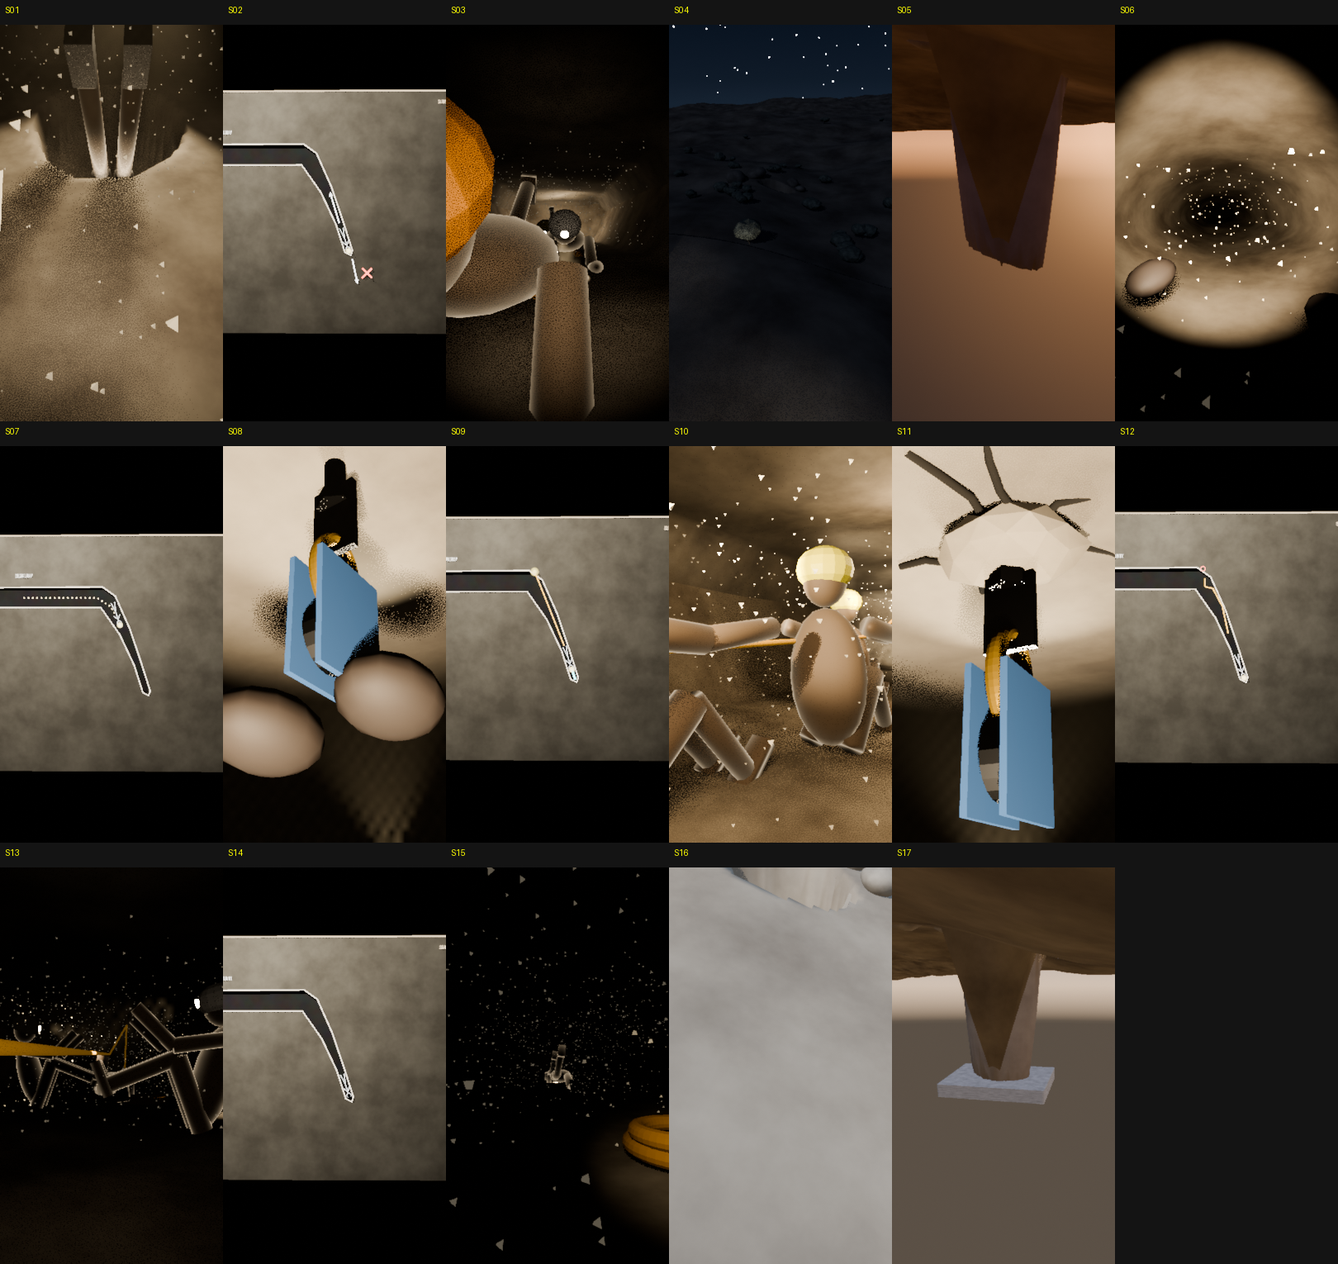
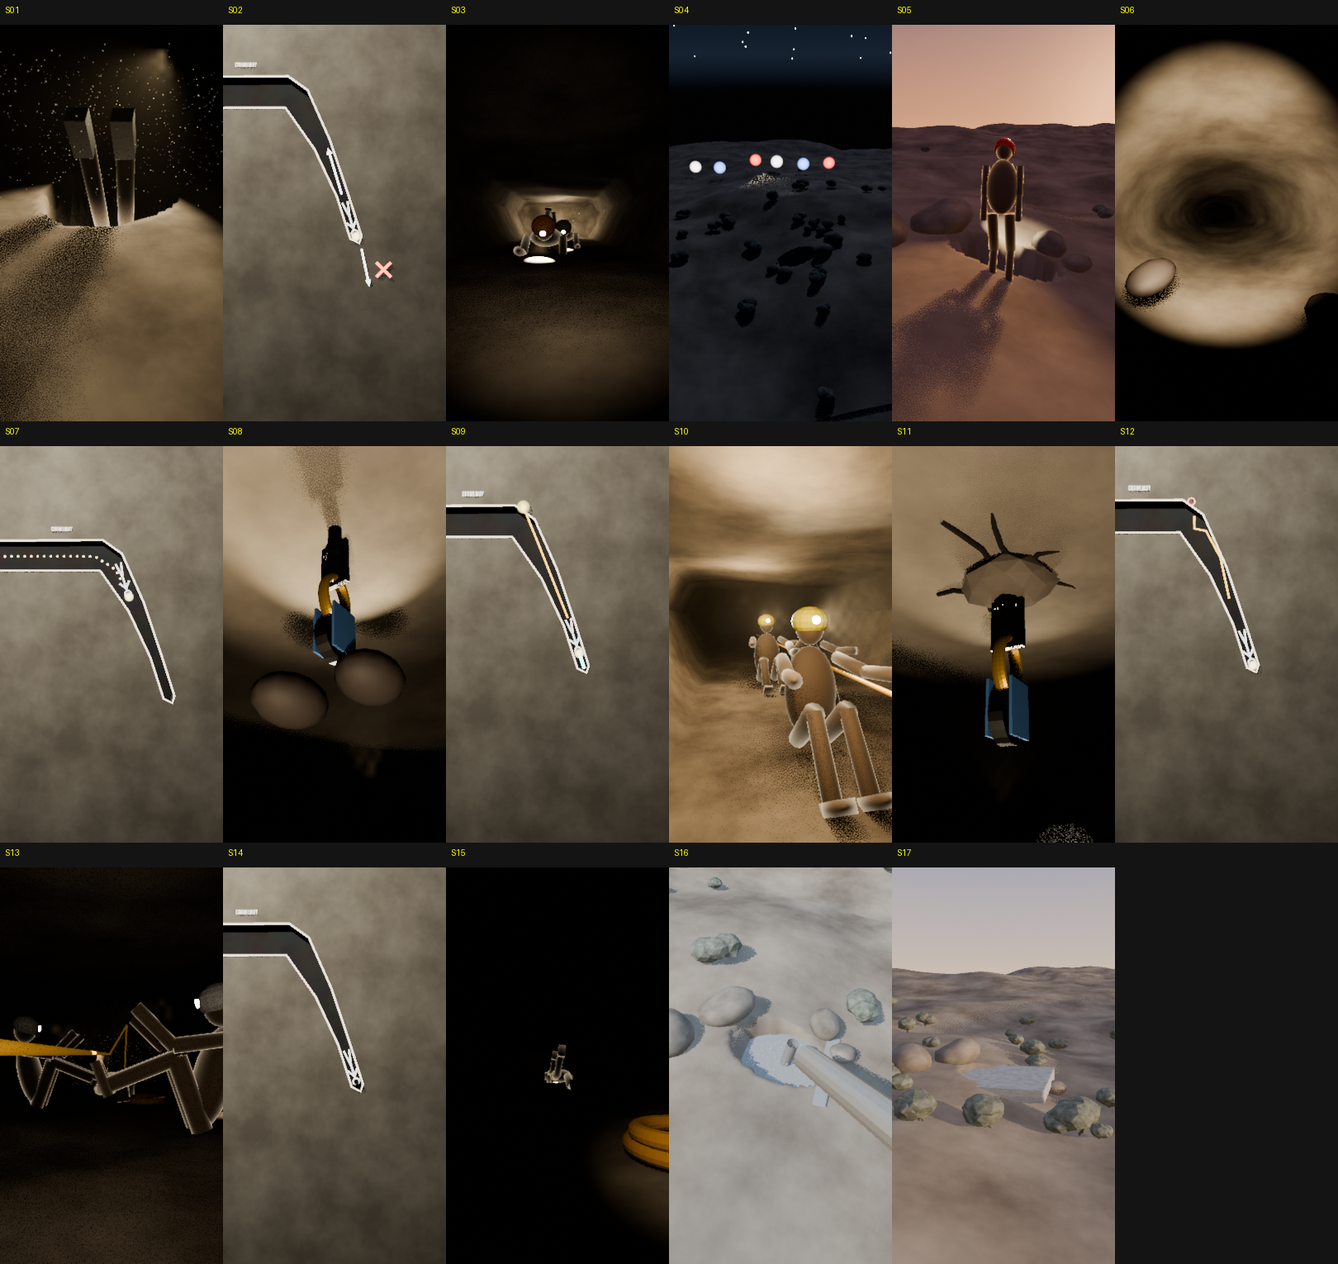
CAVE-02/04 animated + READY
Claude-Session: https://claude.ai/code/session_018PgShWLbZ6WQAiPFkp2HdE

diff --git a/YOUTUBE_ANIMATION_STUDIO/BLENDER_PROJECTS/MURDER-03/shots.py b/YOUTUBE_ANIMATION_STUDIO/BLENDER_PROJECTS/MURDER-03/shots.py
@@ -344,9 +344,10 @@ def S07(L, n):
     b = M.money_bag((0.22, 0, -0.4), name="cbag")
     b.parent = cour["shoulderR"]
     M.rain((12, -16, 5), (26, 26, 14), (1.5, 0, -14), n, count=2400, length=0.45, width=0.008, period=6, seed=11,
-           cam=(36, -27, 2.4), clear=2.0, emit=0.9, color=(0.9, 0.7, 0.5))
+           cam=(27, -19, 2.0), clear=2.0, emit=0.9, color=(0.9, 0.7, 0.5))
     L.fog_volume(center=(10, 0, 6), size=(90, 70, 14), density=0.012, color=(0.9, 0.75, 0.55))
-    cam, ct = cam_path(L, n, (37, -26, 2.4), (39.5, -23.5, 2.4), (11, -6, 3.2), (11, -5, 3.2), lens=35, ease=False)
+    cam, ct = cam_path(L, n, (27, -19, 2.0), (29, -16.5, 2.0), (12, -5, 3.0), (12, -4.5, 3.0), lens=35, ease=False)
+    L.area((14, -9, 15), (0, 0, 0), energy=30000, size=24, color=(1.0, 0.62, 0.3), name="sodiumwash")
     L.handheld(cam, n, amp=0.01, rate=0.4)
     L.bake_static()
 
@@ -370,8 +371,8 @@ def S08(L, n):
 
 
 def S15(L, n):
-    M.night_sky(stars=0.5, hor=(0.02, 0.025, 0.04))
-    L.sun(rot=(R(50), 0, R(40)), energy=1.0, color=(0.5, 0.6, 0.9), name="moon")
+    M.night_sky(stars=0.5, hor=(0.05, 0.06, 0.09), strength=1.5)
+    L.sun(rot=(R(50), 0, R(40)), energy=3.0, color=(0.5, 0.6, 0.9), name="moon")
     def h(x, y):
         river = math.sin(y * 0.02) * 40
         d = abs(x - river)
@@ -407,9 +408,9 @@ def S09(L, n):
                    name="behind")
     M.cloud_volume((-10, 0, -24), (200, 80, 16), density=0.35, scale=0.6, drift=(-45, 0, 0), n=n, color=(0.3, 0.34, 0.45),
                    name="deck")
-    M.rain((-14, -12, -1), (40, 22, 20), (-36, 0, -8), n, count=2400, length=1.2, width=0.012, period=8, seed=5, emit=0.6,
-           cam=(-13, -34, -1), clear=3)
-    cam, ct = cam_path(L, n, (-11, -36, -1.5), (-14.5, -28, -2.2), (-13, 0, -0.5), (-15.5, 0, -1.6), lens=50)
+    M.rain((-14, -12, -1), (40, 22, 20), (-36, 0, -8), n, count=1300, length=0.9, width=0.008, period=8, seed=5, emit=0.5,
+           cam=(-34, -22, -5), clear=3)
+    cam, ct = cam_path(L, n, (-36, -24, -5.5), (-31, -19, -4.6), (-14, 0, -0.5), (-16, 0, -1.6), lens=50)
     L.handheld(cam, n, amp=0.05, rate=0.8)
     L.bake_static()
 
@@ -447,7 +448,7 @@ def S10(L, n):
     for f, rz in ((fo, 0), (n, R(40))):
         can_root.rotation_euler = (0, 0, rz)
         can_root.keyframe_insert("rotation_euler", frame=f)
-    M.rain((0, 0, -20), (30, 8, 8), (0, 0, -16), n, count=1200, length=0.8, width=0.01, period=8, seed=2, emit=0.6)
+    M.rain((0, 0, -20), (30, 8, 8), (0, 0, -16), n, count=600, length=0.6, width=0.008, period=8, seed=2, emit=0.4)
     M.lightning(n, [fo + 3], rot=(R(10), R(-15), 0), energy=12, world_bg=bg, world_peak=4)
     cam, ct = L.camera(loc=(0, 0, 0), target=None, lens=24)
     cam.data.clip_end = 3000
@@ -482,18 +483,19 @@ def forest_floor(name, h, area, seed=5, count=700):
 
 
 def S11(L, n):
-    M.dawn_sky(hor=(0.42, 0.45, 0.44), mid=(0.33, 0.36, 0.38), zen=(0.22, 0.25, 0.28), strength=1.2)
-    L.sun(rot=(R(30), R(20), R(40)), energy=0.8, color=(0.8, 0.85, 0.9), angle=20, name="overcast")
+    M.dawn_sky(hor=(0.42, 0.45, 0.44), mid=(0.33, 0.36, 0.38), zen=(0.22, 0.25, 0.28), strength=2.0)
+    L.sun(rot=(R(30), R(20), R(40)), energy=2.5, color=(0.8, 0.85, 0.9), angle=20, name="overcast")
+    bpy.context.scene.eevee.use_volumetric_shadows = False
     def h(x, y):
         return 1.2 * noise.noise(Vector((x * 0.05, y * 0.05, 4)))
     M.heightfield("floor", -60, 60, -60, 60, 120, 120, h,
                   mat=L.mat_noise_surface("floorm", (0.03, 0.035, 0.02), (0.09, 0.09, 0.05), scale=1.5, bump=0.3, voronoi=False))
     spots = M.scatter_spots((-50, 50, -10, 60), 260, h, seed=2, h=(14, 24), exclude=lambda x, y: abs(x) < 7 and y < 12)
-    spots += M.scatter_spots((-50, 50, -60, -10), 120, h, seed=3, h=(14, 24), exclude=lambda x, y: abs(x) < 9)
+    spots += M.scatter_spots((-50, 50, -60, -10), 120, h, seed=3, h=(14, 24), exclude=lambda x, y: abs(x) < 14)
     M.fast_conifers("forest", spots, mat=M.mat_dusted("trees", base=(0.02, 0.04, 0.025), snow=(0.05, 0.08, 0.05)), seed=2,
                      bare_frac=0.1)
     forest_floor("ferns", h, (-12, 12, -8, 14), count=500)
-    jm = L.mat_principled("jacket", (0.22, 0.17, 0.04), rough=0.6)
+    jm = L.mat_principled("jacket", (0.5, 0.36, 0.05), rough=0.6)
     for i in range(3):
         f = L.char_figure(f"searcher{i}", color=(0.05, 0.05, 0.045), height=1.78, coat=True)
         L.assign(f["coat"], jm)
@@ -509,10 +511,10 @@ def S11(L, n):
         L.assign(bulb, L.mat_emission(f"tb{i}", (1, 0.9, 0.7), 30))
         bulb.parent = f["shoulderR"]
         tl.location = (0, 0, -0.62)
-    L.fog_volume(center=(0, 10, 6), size=(90, 90, 14), density=0.045, color=(0.75, 0.8, 0.78))
+    L.fog_volume(center=(0, 14, 5), size=(60, 50, 10), density=0.03, color=(0.75, 0.8, 0.78))
     M.rain((0, 2, 4), (12, 16, 14), (0.4, 0, -6), n, count=900, length=0.12, width=0.004, period=8, seed=9, emit=0.4,
            color=(0.8, 0.85, 0.85), cam=(0, -10, 6), clear=1.5)
-    cam, ct = cam_path(L, n, (0.5, -12, 12), (0, -9.5, 3.2), (0, 4, 10), (0, 2, 1.0), lens=35)
+    cam, ct = cam_path(L, n, (0.5, -11, 7.5), (0, -8.5, 2.6), (0, 4, 6), (0, 1.5, 1.0), lens=35)
     L.bake_static()
 
 
@@ -600,16 +602,16 @@ def S13(L, n):
     sk.keyframe_insert("value", frame=int(n * 0.6))
     for i, (x, y, rz) in enumerate(((-0.06, 0.035, 0.15), (0.07, 0.03, -0.2), (0.0, -0.045, 0.05))):
         M.rotten_bundle((x, y, -0.024 + i * 0.002), rot_z=rz, size=(0.156, 0.066, 0.03), name=f"bundle{i}")
-    grains = L.particle_cloud((0, 0, 0.05), (0.3, 0.25, 0.08), count=500, radius=0.0025, drift=(0.0, 0.0, -0.04), nframes=n,
+    grains = L.particle_cloud((0, 0, 0.05), (0.3, 0.25, 0.08), count=120, radius=0.0012, drift=(0.0, 0.0, -0.04), nframes=n,
                               name="grains", mat=L.mat_principled("grm", (0.5, 0.44, 0.32), rough=0.8))
     for f, s in ((1, 1.0), (int(n * 0.6), 1.0), (n, 0.001)):
         grains.scale = (s, s, s)
         grains.keyframe_insert("scale", frame=f)
     cam, ct = cam_path(L, n, (0.02, -0.25, 0.75), (0.01, -0.2, 0.62), (0, 0.0, 0), (0, 0.0, 0), lens=85)
     L.dof(cam, distance=0.8, fstop=2.0)
-    cam.data.dof.focus_distance = 0.6
+    cam.data.dof.focus_distance = 0.79
     cam.data.dof.keyframe_insert("focus_distance", frame=1)
-    cam.data.dof.focus_distance = 0.66
+    cam.data.dof.focus_distance = 0.65
     cam.data.dof.keyframe_insert("focus_distance", frame=n)
     L.bake_static()
 
@@ -658,9 +660,9 @@ def S14(L, n):
         c = M.glow_poly([(x + 0.16 * math.cos(a), y + 0.045 * math.sin(a), 0.008) for a in [i * 2 * math.pi / 24 for i in range(24)]],
                         color=(1.0, 0.08, 0.05), strength=6, bevel=0.003, name="ring", closed=True)
         M.curve_draw(c, 38, 46)
-    M.desk_lamp((-0.7, 0.9, 0), (0, 0.25, 0), energy=50, rot_z=R(200))
+    M.desk_lamp((-0.7, 0.9, 0), (0, 0.25, 0), energy=14, rot_z=R(200))
     L.area((0, 0.2, 1.5), (0, 0, 0), energy=8, size=1, color=(0.8, 0.85, 1.0), name="fill")
-    cam, ct = cam_path(L, n, (0.0, -0.15, 1.05), (0.06, 0.05, 0.75), (0.0, 0.32, 0), (0.08, 0.3, 0), lens=40)
+    cam, ct = cam_path(L, n, (0.02, -0.1, 1.25), (0.04, 0.0, 0.95), (0.02, 0.12, 0), (0.06, 0.12, 0), lens=40)
     L.bake_static()
 
 
@@ -716,7 +718,7 @@ def S16(L, n):
              ("?", (0.0, -0.05, -0.55), 58, 0.03)]
     roots = []
     for i, (txt, loc, hit, rot) in enumerate(cards):
-        c = M.paper_card(txt, loc, size=(1.0, 0.68), rot_y=rot, badge="THEORY", name=f"card{i}", text_size=0.16 if i == 0 else 0.26)
+        c = M.paper_card(txt, loc, size=(1.0, 0.68), rot_y=rot, badge="THEORY", name=f"card{i}", text_size=0.19 if i == 0 else 0.32)
         M.slam_in(c, hit, frm=(0.0, -1.2, 0.2), rot0=0.25, scale0=1.4, lead=5)
         M.hide_until(c, max(2, hit - 5))
         s = M.red_string([(loc[0], -0.06, loc[2] + 0.28), (0.0, -0.06, 1.85)], name=f"str{i}")
@@ -731,7 +733,7 @@ def S16(L, n):
 
 def S17(L, n):
     bg = M.storm_sky(zen=(0.006, 0.008, 0.014), hor=(0.03, 0.04, 0.06))
-    L.sun(rot=(R(65), 0, R(-150)), energy=0.9, color=(0.5, 0.6, 0.9), name="moon")
+    L.sun(rot=(R(65), 0, R(-150)), energy=2.2, color=(0.5, 0.6, 0.9), name="moon")
     def h(x, y):
         return 20 * noise.noise(Vector((x * 0.006, y * 0.006, 5))) + 5 * noise.noise(Vector((x * 0.03, y * 0.03, 1)))
     M.heightfield("hills", -400, 400, -100, 700, 120, 120, h, mat=L.mat_principled("hm", (0.006, 0.01, 0.007), rough=0.9))
@@ -788,10 +790,11 @@ def S18(L, n):
     L.particle_cloud((-14, -6, 3), (14, 8, 6), count=400, radius=0.006, drift=(0.02, 0, 0.01), nframes=n, name="dust")
     # orbit 20 deg around the tail
     tgt = (-14.5, 0, 2.6)
-    r_ = 15.0
-    cam, ct = L.camera(loc=(0, 0, 0), target=tgt, lens=50)
-    for f, a in ((1, R(-15)), (n, R(5))):
-        cam.location = (tgt[0] + r_ * math.sin(a), -r_ * math.cos(a), 2.4)
+    r_ = 12.0
+    tgt = (-16.0, 0, 2.3)
+    cam, ct = L.camera(loc=(0, 0, 0), target=tgt, lens=35)
+    for f, a in ((1, R(-30)), (n, R(-10))):
+        cam.location = (tgt[0] + r_ * math.sin(a), -r_ * math.cos(a), 0.7)
         cam.keyframe_insert("location", frame=f)
     L.bake_static()
 
@@ -822,7 +825,7 @@ def S19(L, n):
         for f, s in ((1, 3.0), (fv + 4, 3.0), (fv + 20, 0.0)):
             em.default_value = s
             em.keyframe_insert("default_value", frame=f)
-    L.spot((hx, -3, bz - 1.0), (R(70), 0, 0), energy=200, size_deg=40, blend=0.6, color=(0.8, 0.88, 1.0), name="macrokey")
+    L.spot((hx, -3, bz - 1.0), (R(70), 0, 0), energy=35, size_deg=40, blend=0.6, color=(0.8, 0.88, 1.0), name="macrokey")
     cam, ct = cam_path(L, n, (hx + 0.9, -4.6, bz - 0.9), (hx + 0.5, -3.3, bz - 0.6), (hx, -0.75, bz - 0.25), (hx, -0.75, bz - 0.25),
                        lens=85)
     L.dof(cam, distance=3.4, fstop=2.8)
@@ -863,8 +866,8 @@ def S21(L, n):
     wall.scale = (40, 30, 1)
     L.assign(wall, L.mat_noise_surface("wallm", (0.015, 0.015, 0.017), (0.04, 0.04, 0.045), scale=5, bump=0.2, voronoi=False))
     M.suspect_wall(cols=30, rows=18, origin=(0, 0, 3.2), seed=3)
-    L.spot((0, -9, 9), (R(42), 0, 0), energy=9000, size_deg=70, blend=0.7, color=(0.75, 0.85, 1.0), name="coldlamp", radius=0.3)
-    L.point((0, -2.5, 4.5), energy=250, color=(0.8, 0.88, 1.0), radius=0.4, name="near")
+    L.spot((0, -9, 9), (R(42), 0, 0), energy=4500, size_deg=70, blend=0.7, color=(0.75, 0.85, 1.0), name="coldlamp", radius=0.3)
+    L.point((0, -2.5, 4.5), energy=70, color=(0.8, 0.88, 1.0), radius=0.4, name="near")
     cam, ct = cam_path(L, n, (0.25, -1.1, 4.0), (0.0, -14.0, 3.6), (0.25, 0, 4.1), (0.0, 0, 3.2), lens=24)
     L.particle_cloud((0, -3, 4), (6, 4, 4), count=300, radius=0.004, drift=(0.01, 0, -0.01), nframes=n, name="dust")
     L.bake_static()
@@ -873,8 +876,9 @@ def S21(L, n):
 # ============================================================================= S22 dawn forest, open question
 
 def S22(L, n):
-    M.dawn_sky(hor=(0.5, 0.45, 0.45), mid=(0.22, 0.25, 0.32), zen=(0.06, 0.08, 0.14), strength=1.0, sun_dir=(0.6, 0.8, 0.1))
-    L.sun(rot=(R(78), 0, R(-145)), energy=2.0, color=(1.0, 0.78, 0.6), angle=2, name="dawnsun")
+    M.dawn_sky(hor=(0.5, 0.45, 0.45), mid=(0.22, 0.25, 0.32), zen=(0.06, 0.08, 0.14), strength=1.6, sun_dir=(0.6, 0.8, 0.1))
+    L.sun(rot=(R(72), 0, R(-160)), energy=4.0, color=(1.0, 0.78, 0.6), angle=2, name="dawnsun")
+    L.sun(rot=(R(20), 0, R(30)), energy=0.8, color=(0.6, 0.7, 0.9), angle=20, name="skyfill")
     def h(x, y):
         return 1.5 * noise.noise(Vector((x * 0.03, y * 0.03, 7))) + 0.15 * noise.noise(Vector((x * 0.4, y * 0.4, 2)))
     prints = M.trail((0.0, -2.0), (0.4, 3.0), step=0.6, gap=0.12, seed=4, rx=0.06, ry=0.14, depth=0.03)
@@ -887,7 +891,7 @@ def S22(L, n):
     spots += M.scatter_spots((-150, 150, 120, 250), 900, h, seed=9, h=(14, 24))
     M.fast_conifers("forest", spots, mat=tm, seed=8, bare_frac=0.05)
     forest_floor("ferns", h, (-9, 9, -6, 10), count=280, seed=6)
-    L.fog_volume(center=(0, 40, 4), size=(200, 160, 10), density=0.035, color=(0.8, 0.8, 0.85))
+    L.fog_volume(center=(0, 30, 3), size=(80, 70, 6), density=0.03, color=(0.8, 0.8, 0.85))
     cam, ct = L.camera(loc=(0, -6.5, 0.7), target=(0.2, 3, 0.4), lens=24)
     cam.data.clip_end = 3000
     fq = int(n * 0.58)

diff --git a/YOUTUBE_ANIMATION_STUDIO/BLENDER_PROJECTS/CAVE-04/shots.py b/YOUTUBE_ANIMATION_STUDIO/BLENDER_PROJECTS/CAVE-04/shots.py
@@ -18,7 +18,7 @@ ANCHOR = (0.2, -0.35)
 def _cyl_between(L, a, b, r, mat, name="limb"):
     a, b = Vector(a), Vector(b)
     d = b - a
-    o = L.prim("cyl", loc=tuple((a + b) / 2), vertices=12, radius=r, depth=d.length, name=name)
+    o = L.prim("cyl", loc=tuple((a + b) / 2), vertices=24, radius=r, depth=d.length, name=name)
     o.rotation_mode = "QUATERNION"
     o.rotation_quaternion = d.to_track_quat("Z", "Y")
     L.assign(o, mat)
@@ -74,7 +74,7 @@ def S01(L, n):
     sp.rotation_quaternion = Vector((0, -0.3, 1)).to_track_quat("-Z", "Y")
     C.rim_light((0, 0.2, 0.3), (0.3, 1.2, 0.6), energy=250, color=(1.0, 0.85, 0.6), size_deg=50, name="bootrim")
     cam = C.camera(lens=28)
-    C.aim_cam(cam, n, [(1, (0.32, -1.6, 0.6), (0.0, 0.45, -0.5)), (n, (0.28, -1.15, 0.55), (0.0, 0.5, -0.65))],
+    C.aim_cam(cam, n, [(1, (0.35, -1.75, 0.62), (0.0, 0.4, -0.15)), (n, (0.3, -1.3, 0.57), (0.0, 0.45, -0.3))],
               shake=0.02, rot_shake=0.004)
     C.cam_fill(cam, energy=10, color=(1.0, 0.85, 0.65))
     L.bake_static()
@@ -405,7 +405,7 @@ def S06(L, n):
 
 
 def _anchor_cam(L, n, keys, shake_keys=None, shake=0.006):
-    cam = C.camera(lens=50)
+    cam = C.camera(lens=32)
     C.aim_cam(cam, n, keys, shake=shake, rot_shake=shake * 0.3, shake_keys=shake_keys, rate=1.0)
     return cam
 
@@ -424,6 +424,8 @@ def S08(L, n):
     rope = C.curve([tuple(A + Vector((-0.04, 0.02, -0.22))), tuple(A + Vector((0.0, 0.3, -0.7))), (0.06, 0.62, -1.7)],
                    thickness=0.011, mat=rope_m, name="rope_down")
     C.grow_curve(rope, [(1, 0.0), (44, 0.0), (n - 6, 1.0)])
+    C.glow_dot((0.0, 0.95, -1.9), WARM, r=0.03, halo=5, strength=10, name="deeplamp")
+    L.point((0.0, 0.9, -1.6), energy=25, color=WARM, radius=0.1, name="deeplight")
     glove = L.mat_principled("glove", (0.05, 0.04, 0.035), rough=0.7)
     hands = []
     for sx in (-1, 1):
@@ -466,7 +468,7 @@ def S11(L, n):
     chunk = L.prim("ico", loc=(0, 0, 0.0), subdivisions=2, radius=0.06, name="chunk")
     chunk.scale = (1.2, 1.0, 0.5)
     L.add_displace(chunk, strength=0.03, scale=0.04, name="chunk_d")
-    L.assign(chunk, C.clay_mat("chunkm", (0.14, 0.12, 0.1), (0.42, 0.37, 0.3)))
+    L.assign(chunk, C.clay_mat("chunkm", (0.06, 0.05, 0.04), (0.2, 0.17, 0.14)))
     chunk.parent = an["root"]
     r = an["root"]
     r.keyframe_insert("location", frame=fail)
@@ -499,15 +501,15 @@ def S11(L, n):
     C.hide_from_frame([slack], f_show=fail)
     C.key_loc(slack, [(fail, (0.0, 0.0, 0.25)), (fail + 4, (0.06, 0.03, -0.08)), (fail + 8, (-0.03, 0.0, 0.04)),
                       (fail + 14, (0, 0, 0))])
-    dust = C.cloud(tuple(A + Vector((0, 0.1, -0.35))), (0.8, 0.8, 0.6), count=1800, radius=0.004, color=(1, 0.9, 0.7),
+    dust = C.cloud(tuple(A + Vector((0, 0.15, -0.3))), (0.6, 0.6, 0.45), count=2500, radius=0.0015, color=(1, 0.9, 0.7),
                    emit=0.25, shape="sphere", seed=11, name="burst")
-    C.key_scale(dust, [(1, 0.01), (fail - 1, 0.01), (fail + 3, 0.7), (n, 1.8)])
+    C.key_scale(dust, [(1, 0.01), (fail - 1, 0.01), (fail + 3, 0.6), (n, 1.0)])
     C.drift(dust, n, (0.0, 0.05, -0.05))
     lp = L.spot((0.5, -0.9, 0.2), (0, 0, 0), energy=45, size_deg=40, blend=0.7, color=WARM, name="worklamp")
     lp.rotation_mode = "QUATERNION"
     lp.rotation_quaternion = (A - Vector(lp.location)).to_track_quat("-Z", "Y")
     C.key_energy(lp, [(1, 45), (fail, 45), (fail + 2, 12), (fail + 4, 55), (fail + 7, 18), (fail + 10, 40), (n, 35)])
-    C.rim_light(tuple(A), (-0.3, 0.6, -0.3), energy=60, color=(1.0, 0.85, 0.6), size_deg=40, name="rim")
+    C.rim_light(tuple(A), (-0.3, 0.6, -0.3), energy=15, color=(1.0, 0.85, 0.6), size_deg=40, name="rim")
     cam = _anchor_cam(L, n, [(1, tuple(A + Vector((0.2, -0.45, -0.32))), tuple(A + Vector((0, 0, -0.08)))),
                              (fail, tuple(A + Vector((0.18, -0.4, -0.3))), tuple(A + Vector((0, 0, -0.1)))),
                              (n, tuple(A + Vector((0.3, -0.6, -0.4))), tuple(A + Vector((0.05, 0.4, -0.8))))],
@@ -521,7 +523,7 @@ def S11(L, n):
 def _sky4(L, tod):
     if tod == "night":
         C.sky_world(top=(0.004, 0.007, 0.018), horizon=(0.02, 0.03, 0.05), ground=(0.003, 0.003, 0.004), strength=1.0)
-        C.sun_from(C.sun_dir(35, 200), energy=0.25, color=(0.55, 0.65, 0.95), angle=3)
+        C.sun_from(C.sun_dir(35, 200), energy=0.6, color=(0.55, 0.65, 0.95), angle=3)
         C.star_dome(count=1400, radius=180, size=0.22, strength=8)
     elif tod == "dusk":
         sd = C.sun_dir(3, 15)
@@ -562,17 +564,17 @@ def S04(L, n):
     fz, sage = _hill(L, n)
     rnd = random.Random(5)
     for k in range(6):
-        x, y = -7 + k * 2.6 + rnd.uniform(-0.5, 0.5), -24 + rnd.uniform(-2, 2)
+        x, y = -7 + k * 2.6 + rnd.uniform(-0.5, 0.5), -20 + rnd.uniform(-2, 2)
         z = fz(x, y) + 0.9
         col = ((1, 0.12, 0.08), (0.2, 0.35, 1.0), (1, 0.95, 0.85))[k % 3]
         C.glow_dot((x, y, z), col, r=0.12, halo=5, strength=12, light=150, name=f"veh{k}")
-    hl = L.spot((0.0, -24, fz(0, -24) + 1.2), (0, 0, 0), energy=4000, size_deg=35, blend=0.6, color=(1, 0.95, 0.85),
+    hl = L.spot((0.0, -20, fz(0, -20) + 1.2), (0, 0, 0), energy=4000, size_deg=35, blend=0.6, color=(1, 0.95, 0.85),
                 name="headlights")
     hl.rotation_mode = "QUATERNION"
     hl.rotation_quaternion = (Vector((0, 0, fz(0, 0))) - Vector(hl.location)).to_track_quat("-Z", "Y")
     z0 = C.hill_z(0, 0, pit_depth=0.0)
     cam = C.camera(lens=28)
-    C.aim_cam(cam, n, [(1, (3.5, -20.0, z0 + 9.0), (0.0, 2.0, z0 + 1.5)), (n, (1.0, -5.2, z0 + 2.2), (0.0, 0.3, z0 - 0.6))],
+    C.aim_cam(cam, n, [(1, (3.0, 15.0, z0 + 11.0), (0.0, -8.0, z0 - 1.0)), (n, (1.0, 4.6, z0 + 2.6), (0.0, -1.0, z0 - 0.8))],
               shake=0.02, rot_shake=0.001, rate=0.4)
     L.bake_static()
 

diff --git a/YOUTUBE_ANIMATION_STUDIO/QUALITY_CONTROL/CAVE-04/ANIMATION_NOTES.md b/YOUTUBE_ANIMATION_STUDIO/QUALITY_CONTROL/CAVE-04/ANIMATION_NOTES.md
@@ -1,0 +1,27 @@
+# CAVE-04 Animation Notes (Nutty Putty Cave, 2009)
+
+Builders: `BLENDER_PROJECTS/CAVE-04/shots.py`, plus new functions appended to `PIPELINE/blender/lib_cave.py` (no existing functions were changed): `clay_mat`, `crack_floor_z`, `crawl_ceiling_z`, `crawl_set`, `helmet`, `crawler`, `anim_crawl`, `outline_figure`, `arrow2d`, `x_mark`, `bolt_anchor`, `pulley`, `star_dome`, `sagebrush`, `hill_z`, `hill_set`. It also reuses the CAVE-02 additions (`figure`, `heightfield`, `passage`, `rim_figure_mat`, ...).
+Preview rounds: 2 full and 1 targeted (S01, S04, S08, S11).
+How John Jones is shown: only boots and lower legs while he is alive (S01), a faceless figure seen from behind (S05), gloved hands (S06), and a grey diagram outline (S02/S07/S09/S12/S14). No body is depicted. His death is shown only as the diagram lamp icon going dark and the outline fading (S14).
+
+| Shot | Built | Deviations / weaknesses |
+|---|---|---|
+| S01 | Clay crawlway floor with a steep V crack (heightfield); legs and boots rising from the crack; his lamp glowing deep inside the crack; dust; push-in | **Weakest shot.** The legs read as stiff pale posts more than legs in coveralls. |
+| S02 | Beige rock slab section: crawlway, then a crack angled steeply down; grey outline figure inverted at the narrow end (lamp dot on its helmet); down and up arrows with red X marks popping in; 5% zoom | None |
+| S03 | Three prone faceless rescuers (helmet lamps, rope coils, pulley bag) crawl toward a floor-level camera; pull-back | The figures are small and distant. |
+| S04 | Night: bare hill heightfield, star dome, sagebrush, red/blue/white vehicle glows and headlights at the bottom; crane down from uphill toward the opening | The cave opening reads weakly in the dark. |
+| S05 | Dusk: faceless caver (red helmet, lamp on) seen from behind at the opening; crouches and drops in; warm rim light | The card was moved to y=900. |
+| S06 | First-person tube that narrows and tilts down; helmet lamp; alternating gloved hands reach and pull; crawl bob | The glove shapes are simple ellipsoids. |
+| S07 | Section: the outline figure slides along the crawlway, turns and slides head-first down the crack to the narrow end; dotted trail; camera follows down | None |
+| S08 | Ceiling macro: the bolt is hammered in, then hanger, karabiner and pulley appear; rope pays out down into the crack; three framings | The pulley plates are oversized. The end frames looking into the crack are very dark. |
+| S09 | Section: rope from the anchor to the figure's feet (animated curve point); the figure inches up; cyan progress line grows | None |
+| S10 | Four seated faceless haulers in line (helmets and lamps), leaning back in sync on the rope through the ceiling pulley; warm fills; tracking shot down the line | Diagonal track instead of a pure side track, because the crawlway is too narrow for a side camera. |
+| S11 | Cracks spread around the bolt; the anchor, a rock chunk and the pulley tear out and fall; taut rope swaps to a whipping slack rope; dust burst; the lamp flickers; 6-frame hard shake | Dust reads as fine specks. The macro framing is abstract. |
+| S12 | Section: progress line drains; the figure slides back to the narrow end; an empty red anchor ring and slack rope | None |
+| S13 | Dim crawlway: two figures resting against the walls, one working at the crack, flickering lamps, slack re-rig, rope coil; lateral dolly | Dark (intended); the figures are angular. |
+| S14 | Section final state: the helmet lamp icon flickers, dims and goes out; the outline fades to a faint line; slow zoom-out | The card was moved to y=760. |
+| S15 | Static floor camera at the crack: two rescuers crawl away; their lamps shrink and switch off; a rope coil remains in the foreground | None |
+| S16 | Day: chute and grey pour into the opening while a fill plane rises; hard cut at 62% to a flush concrete slab; crane up | The pour stream is a simple tube. |
+| S17 | Dawn: the concrete slab flush in the hillside among sagebrush moving in the wind; slow push-in | None |
+
+Script.json overlay fixes: S05 card y 1150 → 900 (mood cave), S14 card y 1150 → 760 (mood cave). All labels use allowed values.

diff --git a/YOUTUBE_ANIMATION_STUDIO/PROJECT_TRACKER/STATUS.md b/YOUTUBE_ANIMATION_STUDIO/PROJECT_TRACKER/STATUS.md
@@ -1,6 +1,6 @@
 # STATUS (auto-generated from disk by update_tracker.py)
 
-Updated: 2026-11-27T13:54:20Z
+Updated: 2026-11-27T13:58:10Z
 
 ## Concept counts
 
@@ -16,8 +16,8 @@ Updated: 2026-11-27T13:54:20Z
 
 ## Pipeline status
 
-- ANIMATED - in render queue: 13
-- ANIMATING: 4
+- ANIMATED - in render queue: 14
+- ANIMATING: 3
 - CONCEPT: 76
 - SCRIPTED: 7
 
@@ -28,7 +28,7 @@ Updated: 2026-11-27T13:54:20Z
 | CAVE-01 | He Went 270 m Down to Bring a Body Home | 82 | ANIMATED - in render queue |
 | CAVE-02 | 13 Trapped Behind Kilometres of Flooded Cave | 79 | ANIMATED - in render queue |
 | CAVE-03 | Under the Ice, the Only Way Out Was Deeper | 76 | ANIMATED - in render queue |
-| CAVE-04 | Stuck Upside Down With No Way to Back Out | 75 | ANIMATING |
+| CAVE-04 | Stuck Upside Down With No Way to Back Out | 75 | ANIMATED - in render queue |
 | CAVE-05 | 60 Hours in an Air Bubble Under Mallorca | 75 | SCRIPTED |
 | CAVE-06 | It Looks Like a Pond. It's Killed More Than 10 Divers. | 73 | SCRIPTED |
 | SCUBA-01 | He Lived 60 Hours at the Bottom of the Sea | 84 | ANIMATED - in render queue |
